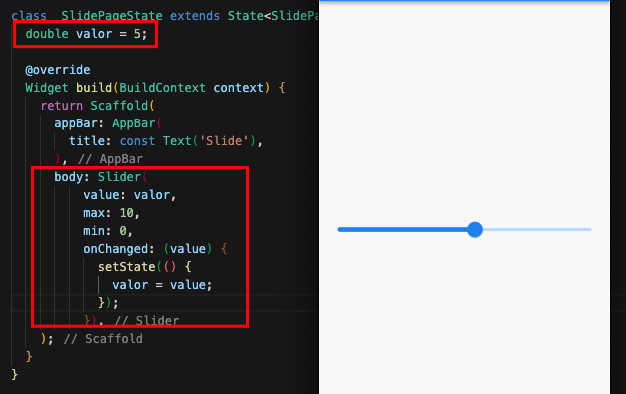
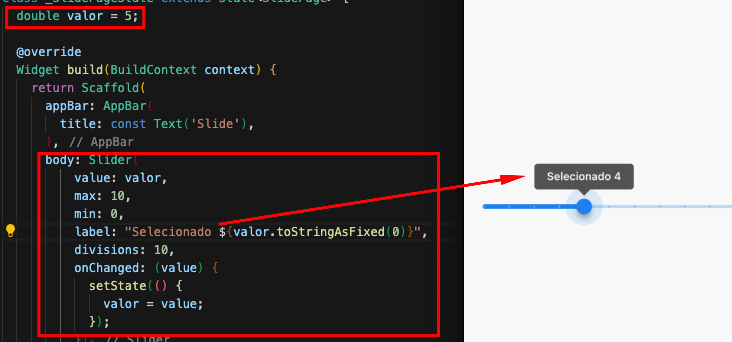
app new

Changed region(s): [[0.0, 0.0, 1.0, 1.0]]

diff --git a/Flutter/Widgets/WidgetGeral.md b/Flutter/Widgets/WidgetGeral.md
@@ -305,4 +305,6 @@
 value: valor inicial do slider
 max: valor maximo do slider
 min: valor minimo do slider
+label: Recebe String para exbição ao deslizar, usar em conjunto com divisions
+divisions: Recebe inteiro com numero de divisoes no slider
 onChanged: Função com paramentro referente ao value , ativado sempre que slider seta novo valor (deslisa)

diff --git a/Apps/README.md b/Apps/README.md
@@ -7,3 +7,4 @@
 5. [ViaCep - Pesquisa](https://github.com/JBSilvaDev/viacep)
 6. [Frases Motivacionais](https://github.com/JBSilvaDev/frases-do-dia)
 7. [Joken-Pô](https://github.com/JBSilvaDev/jokenpo)
+8. [Cara ou Coroa](https://github.com/JBSilvaDev/cara-coroa)
